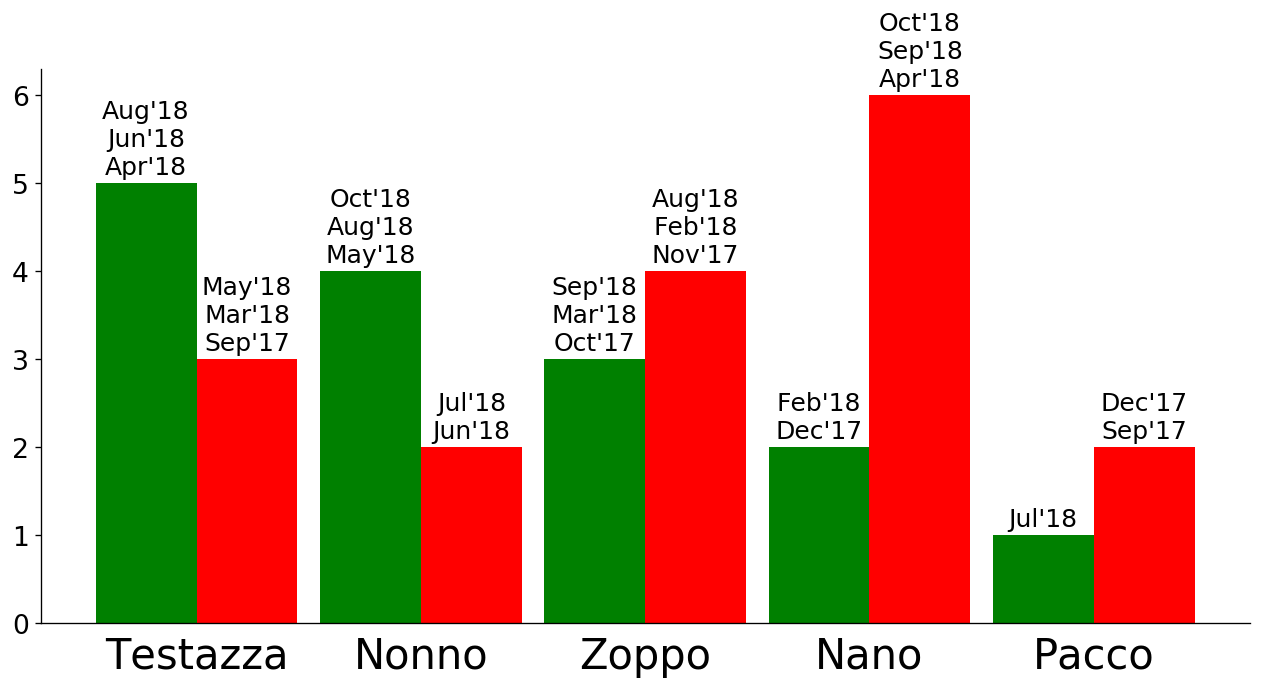
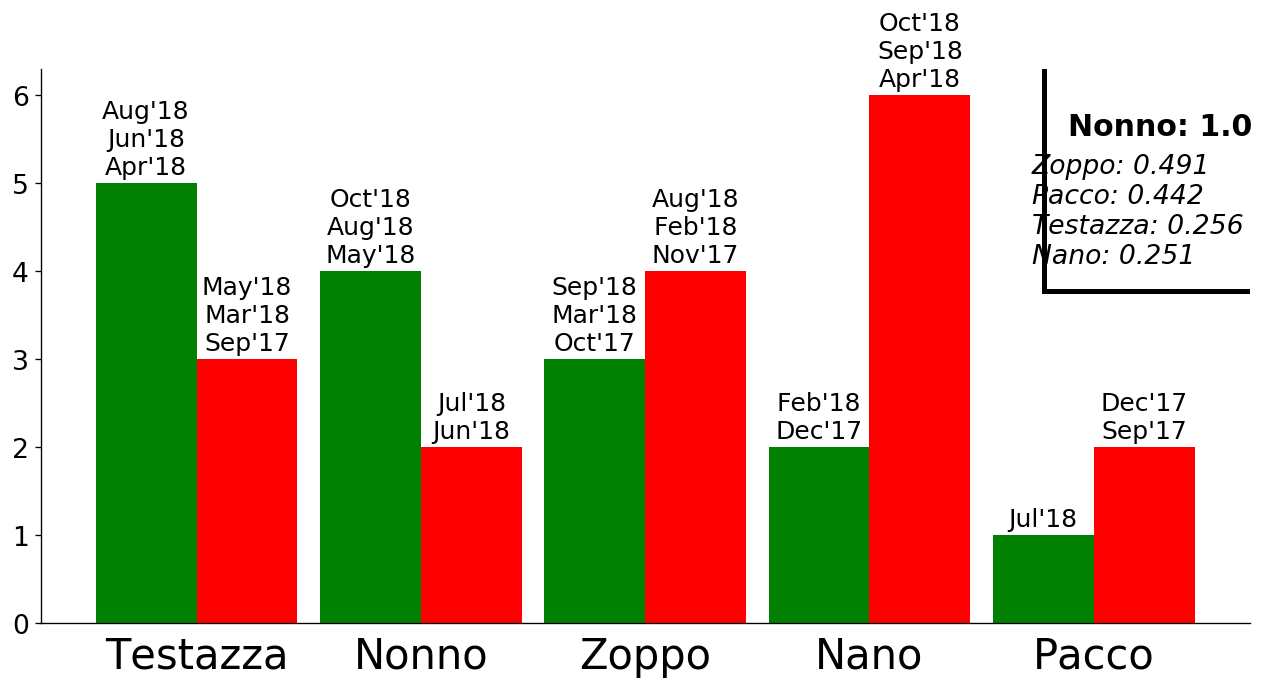
working on /sotm

Changed region(s): [[0.8016, 0.1219, 0.9866, 0.4267]]

diff --git a/Classes.py b/Classes.py
@@ -412,7 +412,7 @@ def stats_of_the_month():
 	def lmb2():
 		return lambda x: datetime.strptime(x, '%Y-%m-%d %H:%M:%S').month
 
-	def plot(dict1, dict2):
+	def plot(dict1, dict2, current_month):
 
 		win = [(name, len(dict1[name])) for name in partecipants]
 		win.sort(key=lambda x: x[1], reverse=True)
@@ -453,6 +453,21 @@ def stats_of_the_month():
 			         bars2[x].get_height() + 0.05, message, ha='center',
 			         va='bottom', fontsize=15)
 
+		# data = [(el[0], round(el[1] / maximum, 3)) for el in current_month]
+		# data.sort(key=lambda x: x[1], reverse=True)
+		# current_winner = '{}: {}'.format(data[0][0], data[0][1])
+		#
+		# plt.text(.85, .88, current_winner, horizontalalignment='left',
+		#          transform=ax.transAxes, fontweight='bold', fontsize=18)
+		#
+		# others = ['{}: {}'.format(el[0], el[1], 3) for el in data[1:]]
+		#
+		# plt.text(.82, .65, '\n'.join(others), horizontalalignment='left',
+		#          transform=ax.transAxes, style='italic', fontsize=16)
+		#
+		# plt.plot([.83, .83], [1, .6], 'k-', lw=3, transform=ax.transAxes)
+		# plt.plot([.83, 1], [.6, .6], 'k-', lw=3, transform=ax.transAxes)
+
 		plt.savefig('sotm.png', dpi=120, bbox_inches='tight')
 		plt.gcf().clear()
 
@@ -492,7 +507,7 @@ def stats_of_the_month():
 
 			dict_lose[name].append(mm + "'" + yy)
 
-	plot(dict_win, dict_lose)
+	plot(dict_win, dict_lose, temp)
 
 
 def stats_on_teams_or_bets(string):
